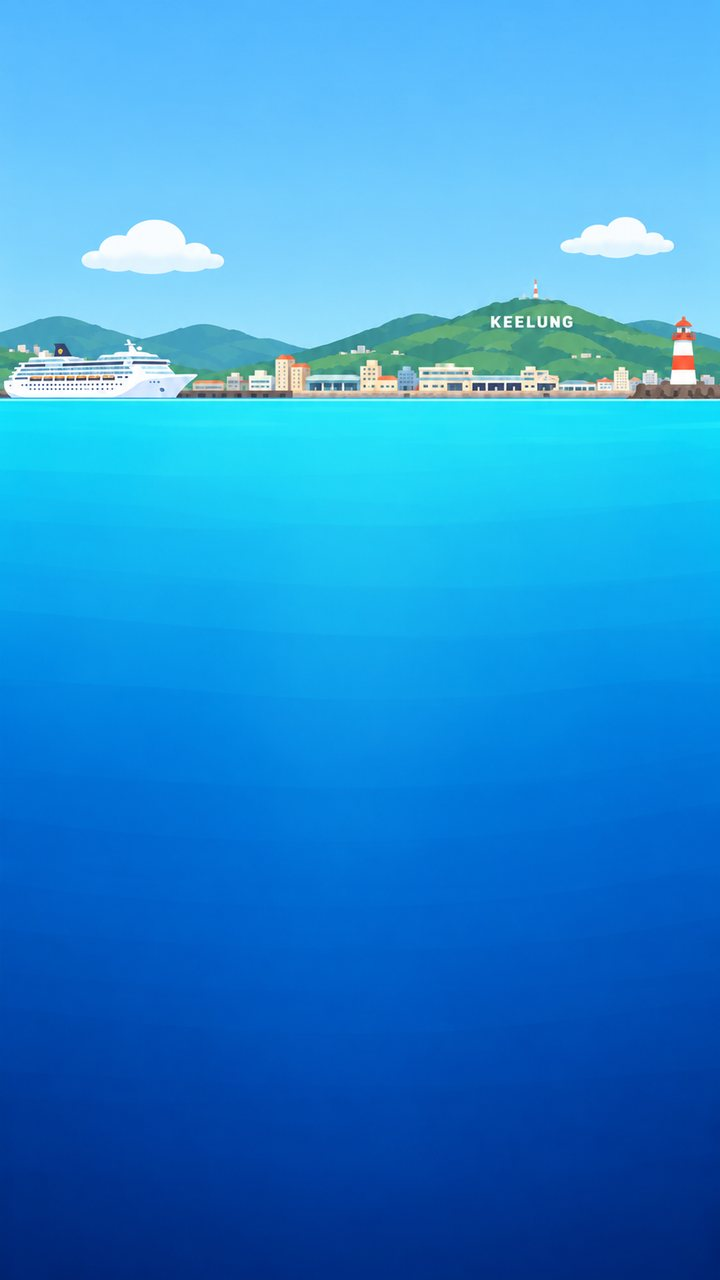
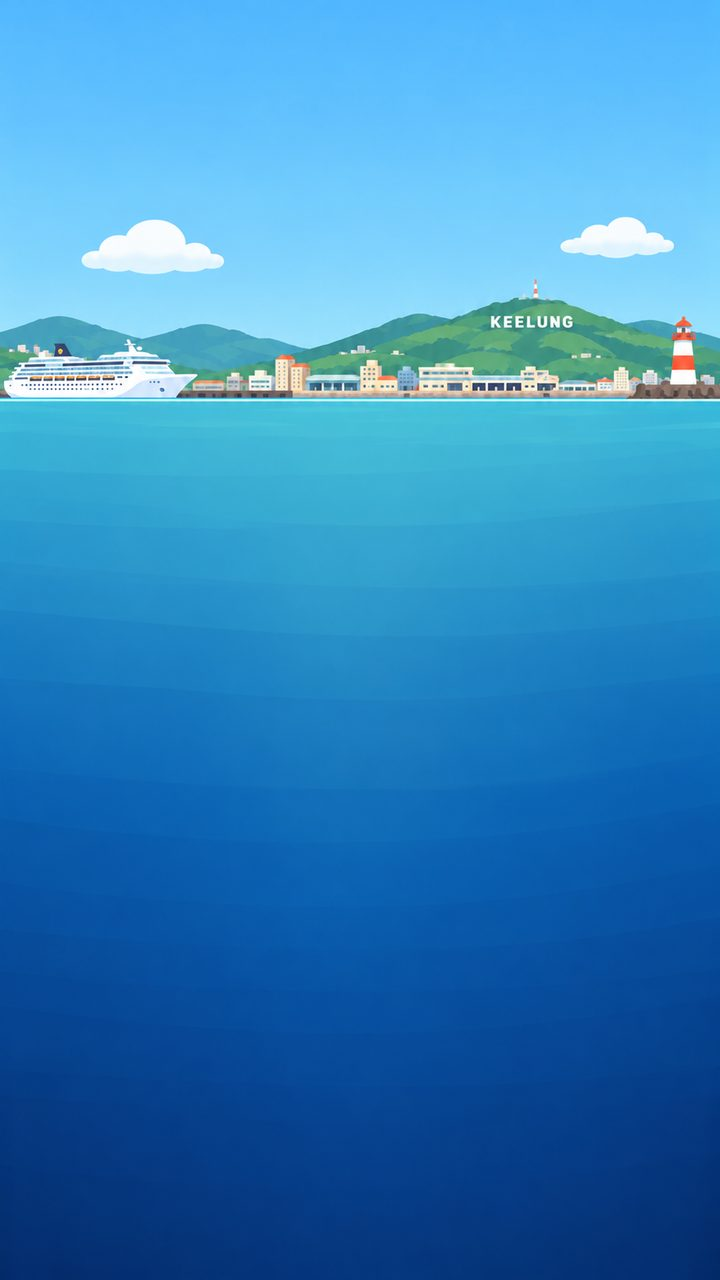
捕魚原型 v0.3：換上降飽和背景與高對比小魚
採用 ChatGPT 捕魚素材 v1.1 的 bg 與 fish_small，其餘六張沿用 v1。
遊戲數值、顯示尺寸與命中判定未變。

Claude-Session: https://claude.ai/code/session_01HH7aCh2DkeBgrqbKrCUAfc

diff --git a/index.html b/index.html
@@ -84,7 +84,7 @@ button:focus-visible{outline:3px solid var(--gold);outline-offset:2px}
         <li><b>鯨鯊</b><span>牠是朋友，出現時公斤數加倍</span></li>
       </ul>
       <button class="btn" id="startBtn">開始</button>
-      <p class="note">原型 v0.2：暫用素材、不發點數</p>
+      <p class="note">原型 v0.3：暫用素材、不發點數</p>
     </div>
   </div>
 
@@ -119,7 +119,7 @@ button:focus-visible{outline:3px solid var(--gold);outline-offset:2px}
 'use strict';
 /* ====== 可調數值：改這裡就能調整節奏與難度（對應「事件節奏表」） ====== */
 const CONFIG = {
-  version: '0.2',
+  version: '0.3',
   duration: 60,                 // 一局秒數
   W: 360, H: 640,               // 邏輯畫布尺寸
   surfaceY: 200,                // 海面高度
